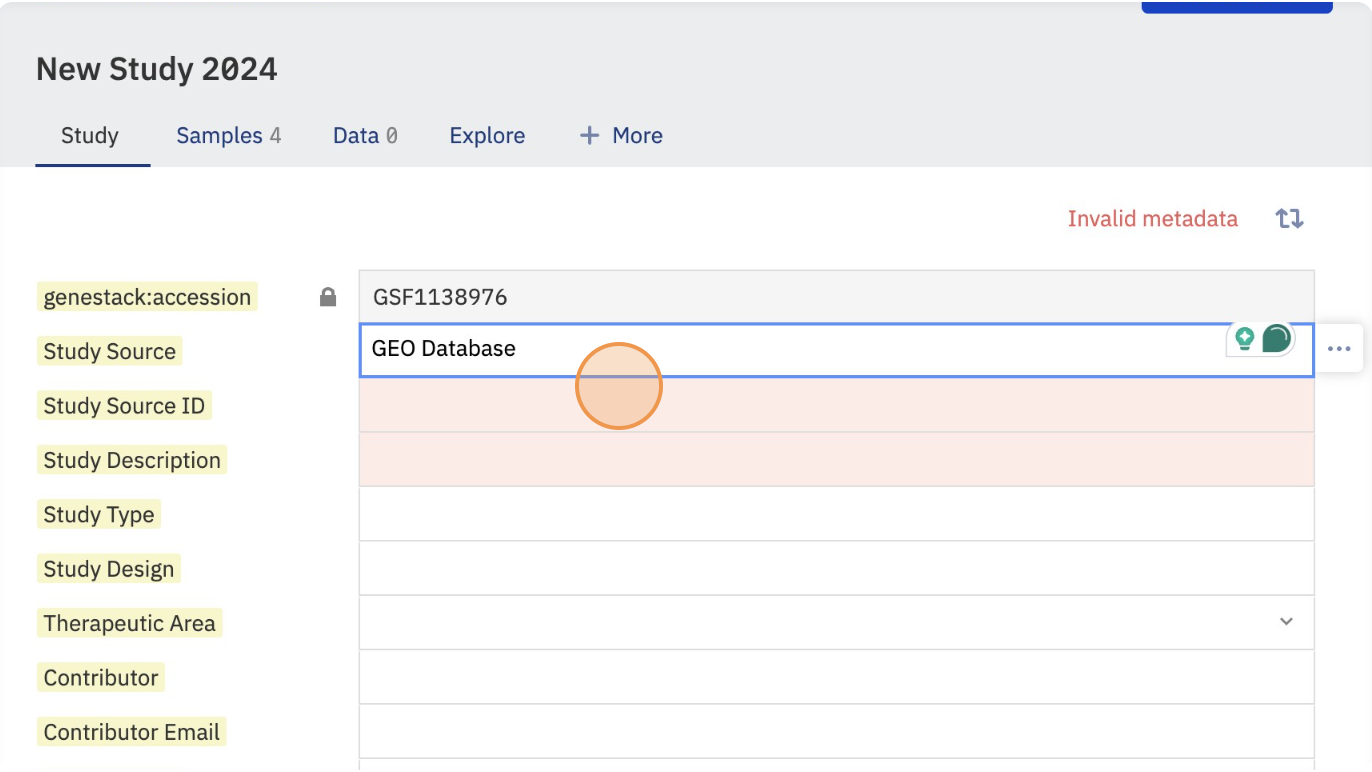
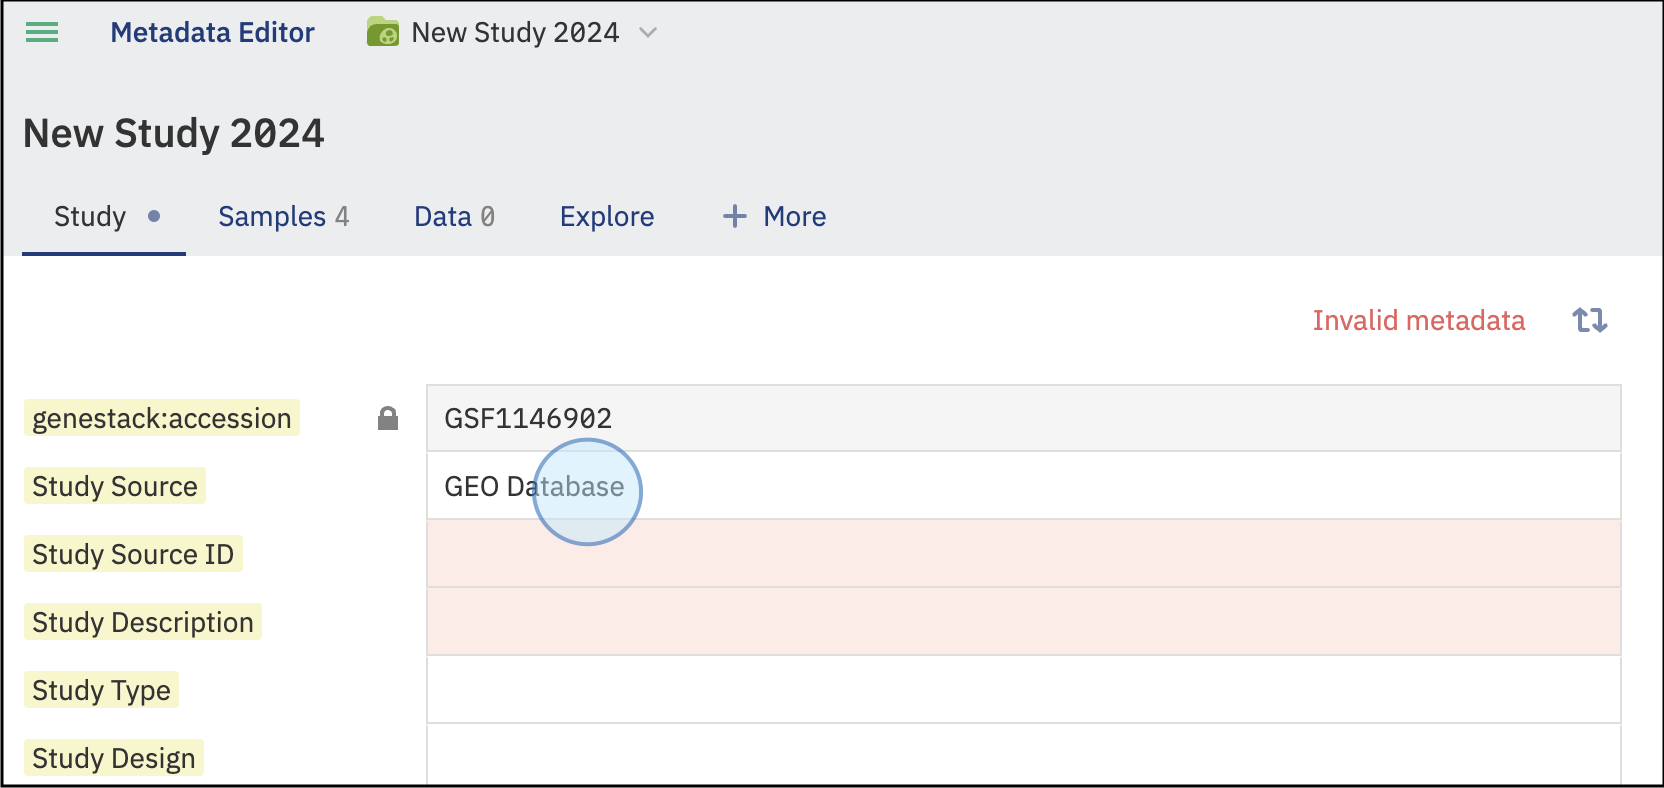
Data Contributor in GUI in updated from the beginning till the Data Versioning (included). Both text and images

diff --git a/docs/user-guide/quick-start/contributor-gui.md b/docs/user-guide/quick-start/contributor-gui.md
@@ -1,16 +1,36 @@
-# Contributor in the User Interface
+# Data Contributor in the User Interface
 
-As a Data Contributor, you can create new studies and manage data efficiently 
+As a **Data Contributor**, you can create new studies and manage data efficiently 
 through the Open Data Manager interface. Follow these steps to get started.
 
 ## Create a New Study
 
+### Understanding the Data Model in ODM
+
+The organization of data and metadata in ODM ensures thorough documentation and seamless 
+integration from study design to data analysis.
+
+* **Study**: Defines the context, aims, and statistical design. 
+* **Samples Metadata**: Documents biological attributes like tissue type, disease status, and treatment conditions.
+* **Libraries/Preparations**: Details sample preparation methods and libraries used, if applicable. 
+* **Experimental Data Metadata**: Describes data processing techniques, including normalization, instrumentation, 
+and data types (e.g., GCT, VCF). 
+* **Experimental Data**: The actual data generated from the study (e.g. bulk transcriptomics, gen variant, etc.).
+
+The diagram below outlines the flow of data in a biological study, highlighting key stages:
+
+![Data Model](quick-start-images/data-model.png)
+
+### Create a Study
+
 To create a new study in the Open Data Manager, follow these steps:
 
-* Click on **Create new study**: Start by selecting the option to create a New Study. 
-* Assign a **Name**: Give your study a descriptive name to identify it easily. 
-* Select the **Template**: Choose the template you want to use for your study. 
+1. **Click on 'Create new study'**: Start by selecting the option to create a New Study on the main dashboard 
+(a) or from the menu in the top left corner, then click on “Create a New Study” (b).
+  ![Create Study](quick-start-images/create-study-button.png)
 
+2. **Assign a Name**: Give your study a descriptive name to identify it easily.
+3. **Select the Template**: Choose the template you want to use for your study. 
 Templates define the metadata structure and validation rules for your study. 
 You can create your own template, and there is no limit on the number of templates you can use.
 
@@ -23,47 +43,60 @@ You can create your own template, and there is no limit on the number of templat
 
 ![Create Study](quick-start-images/create-study.png)
 
-## Explore and Edit Study Details:
+## Explore and Edit Study Details
 
-* Once your study is created, explore the tabs and features presented.
-* To edit the details of your study, click on **Edit**.
+Once you click on “Create,” a new study will be automatically created, and you will be redirected to it. 
+Here, you can explore the various tabs and features that are available.
 
 ![Study Metadata](quick-start-images/study-metadata.png)
 
-* Select the feature you want to edit, for example, **Study Source**.
+### Accession number
+In addition, a unique accession number is automatically generated for each study in the ODM. 
+The accession number allows you to identify the specific study and to further work with the study via API endpoints.
 
-![Update metadata field](quick-start-images/study-source.png)
+### Edit details
+1. To edit the details of your study, select a tab and click on **Edit** (at the bottom of the page).
+  ![Edit button](quick-start-images/study-edit-button.png)
 
-* Click **Publish** to save the changes. You can customize the name for the version you are updating.
+2. Select the feature you want to edit, for example, **Study Source**. Type the new value for the field.
+  ![Update metadata field](quick-start-images/study-source.png)
 
-![Publish Study](quick-start-images/study-publish.png)
+3. Click **Publish** to save the changes. You can customize the name for the version you are updating by clicking 
+the **Publish** button at the bottom of the screen. A new window will pop up, allowing you to customize the version name.
+  ![Publish Study](quick-start-images/study-publish.png)
 
-## Upload Samples
-* Click on **Samples**. 
-* Then click on **Edit**. 
-* Select tabular files **(TSV)** to upload by clicking on the indicated symbol.
-* Click **Select tsv file...** and choose your file.
-* Click **Import**. 
-* Ensure the changes are saved by clicking **Publish**.
+## Upload Samples Metadata
+1. To upload sample metadata, click on the **Samples** tab on the main screen of the study.
+   ![Select Samples Tab](quick-start-images/select-samples-tab.png)
 
-![Upload Samples](quick-start-images/upload-samles.png)
+2. Click on **Edit** at the bottom left of your sample table.
+3. Select tabular files **(TSV)** by clicking on the cloud symbol in the top right of your sample table. 
+You can upload sample metadata from any experiment (e.g., flow cytometry, gene variant, transcriptomics) as 
+long as the file is in a tabular format (TSV).
+   ![Upload Samples](quick-start-images/upload-samples.png)
 
-![Select Samples file](quick-start-images/select-samples-tsv.png)
+4. A new window will pop up. Click **Select tsv file...** and choose your file. 
+5. Once your file is recognized, click **Import**.
+   ![Select Samples file](quick-start-images/select-samples-tsv.png)
 
-* Customize the version you are saving by assigning any preferred name, label, or description.
-
-![Create New Version](quick-start-images/samples-version-description.png)
-
-* To see all the versions created before, click on the bottom of the page.
-
-![Version History](quick-start-images/samples-version-select.png)
+6. Ensure the changes are saved by clicking **Publish**.
+7. In the resulting pop-up box, enter the preferred name, label, or description for
+the activity you just performed to add it to the version log, e.g., *“Sample Metadata has been added.”* 
+For more information on versioning, see the Data Versioning section below.
+   ![Publish Samples](quick-start-images/publish-samples-metadata.png)
 
 ## Data Versioning
 
-* View previously created versions and restore any previous version if needed. 
-* If you don't intend to restore any version, simply click on **Back to the latest version**.
+1. To see all the versions of your metadata previously published, click on the clock icon at the bottom of the page.
+   ![Version History](quick-start-images/samples-version-select.png)
 
-![Version History](quick-start-images/samples-version-history.png)
+2. The resulting view will show you all the previously created versions of this data when they were created, 
+the description entered at the time of publication, and the user who altered the data. 
+3. You can click on any of the lines in the table and then **Restore** at the bottom of the page to restore 
+a previous version of the data. 
+4. To return to the latest version without changing the version simply click on **Back to the latest version** 
+at the bottom of the screen.
+  ![Version History](quick-start-images/samples-version-history.png)
 
 ## Upload Libraries and Preparations
 
